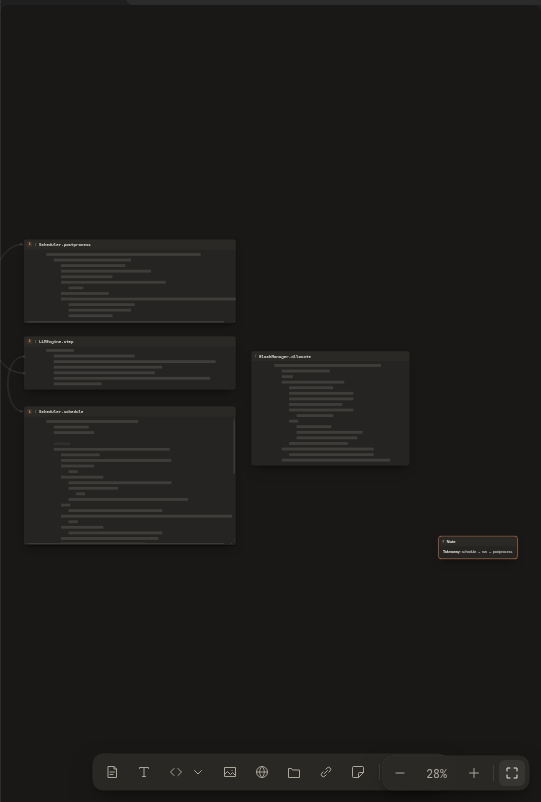
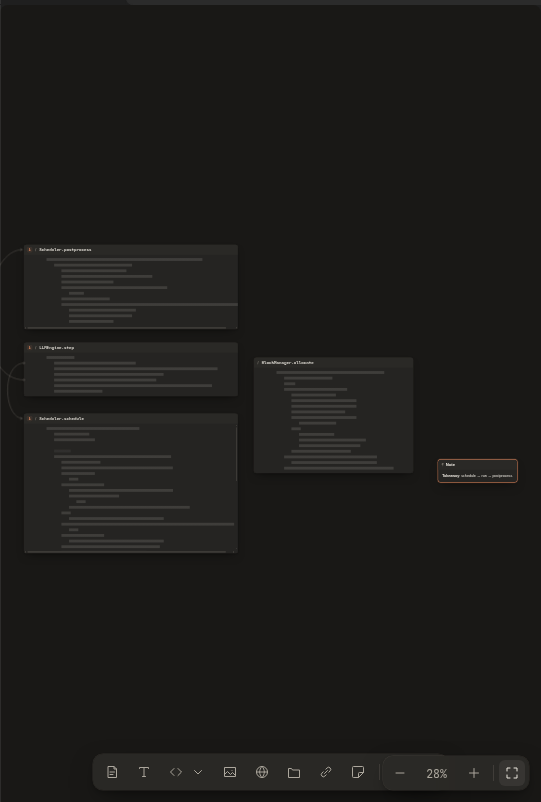
screenshots: branches/main @ 6e99de9

diff --git a/branches/main/diff/summary.md b/branches/main/diff/summary.md
@@ -1,5 +1,17 @@
-**Screenshot diff**: 9 steps, 1 changed.
+**Screenshot diff**: 9 steps, 4 changed.
 
-**3-peek** · changed · 1.7% of pixels
+**3-peek** · changed · 2.5% of pixels
 
 ![3-peek.png](https://github.com/yhnocoder/codeboard/blob/ci-screenshots/branches/main/diff/3-peek.png?raw=true)
+
+**6-board** · changed · 0.6% of pixels
+
+![6-board.png](https://github.com/yhnocoder/codeboard/blob/ci-screenshots/branches/main/diff/6-board.png?raw=true)
+
+**7-uncommitted** · changed · 0.8% of pixels
+
+![7-uncommitted.png](https://github.com/yhnocoder/codeboard/blob/ci-screenshots/branches/main/diff/7-uncommitted.png?raw=true)
+
+**7b-diagnostics** · changed · 1.2% of pixels
+
+![7b-diagnostics.png](https://github.com/yhnocoder/codeboard/blob/ci-screenshots/branches/main/diff/7b-diagnostics.png?raw=true)
